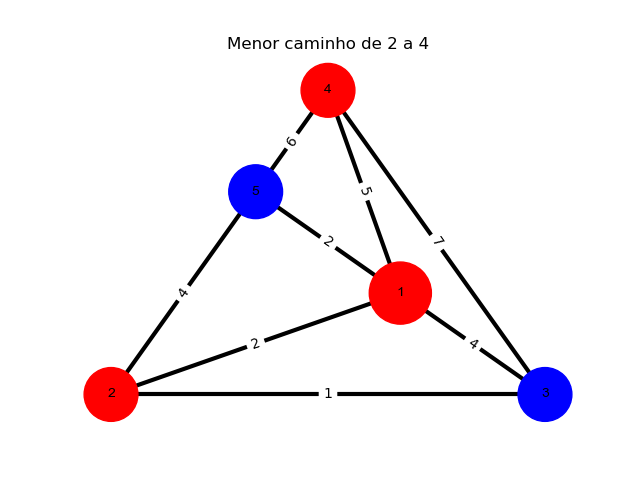
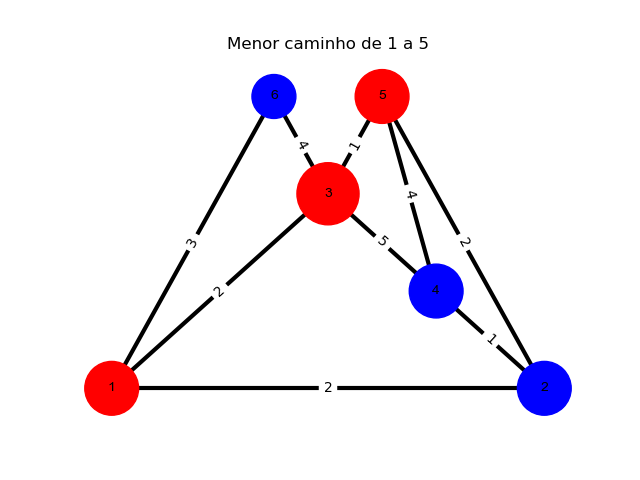
corrigiu a posição das cores

diff --git a/graph.py b/graph.py
@@ -67,7 +67,7 @@ def dijkstra2(grafo,inicio):
         for i in nao_visitados: #percorre os vizinhosnão  visitados
             if i[0] not in visitados and (i[1] + soma) < (soma+menor[1]) and e_Vizinho(grafo,atual,i[0]): # encontra o menor vizinho não visitado
                     menor = i
-
+        print(atual)
         visitados.append(menor[0]) #adiciona o vertice a lista de visitados
         atual = menor[0] # atualiza o vertice atual para o que vai ser visitado agora
         soma = atualiza_soma(nao_visitados,atual,inicio) # atualiza soma de acordo com o vertice atual
@@ -90,12 +90,13 @@ def menor_caminho(grafo,lista,inicio,fim):
         return 0
     menor.append(fim)
     while (atual != inicio):
+        print(atual)
         atual = lista[int(atual) - 1][2]
         menor.append(lista[int(atual) - 1][0])
 
     return menor[::-1]
 # ---------------------main----------------------#
-dados = open("obj.txt") #leitura dos dados do grafo
+dados = open("obj3.txt") #leitura dos dados do grafo
 
 grafo = {}
 i = 1
@@ -114,6 +115,7 @@ dados.close()
 
 if len(param) == 2: #se ao executar os parametros foram colocados na ordem certa
     dk = dijkstra2(grafo, param[0])
+    #print(dk)
     menor = (menor_caminho(grafo,dk,param[0], param[1]))
 
     if dk == 0:
@@ -136,13 +138,16 @@ if menor != 0:
     node_sizes = []
     cores = [""]*len(grafo)
     pesos = []
-    for key in grafo:
+    i = 0
+    for key in G.nodes():
         node_sizes.append(500*len(grafo[key]))
         if key in menor:
-            cores[int(key)-1]= "red"
+            cores[i]= "red"
         else:
-            cores[int(key)-1] = "blue"
+            cores[i] = "blue"
+        i += 1
 
+    print(cores,G.nodes())
     nodes = nx.draw_networkx_nodes(G, pos, node_size=node_sizes, node_color=cores,label=True)
     label = nx.draw_networkx_labels(G, pos,font_size=10,font_family= "Arial")
     edges = nx.draw_networkx_edges(G, pos, arrowstyle='->', arrowsize=5, width=3)
